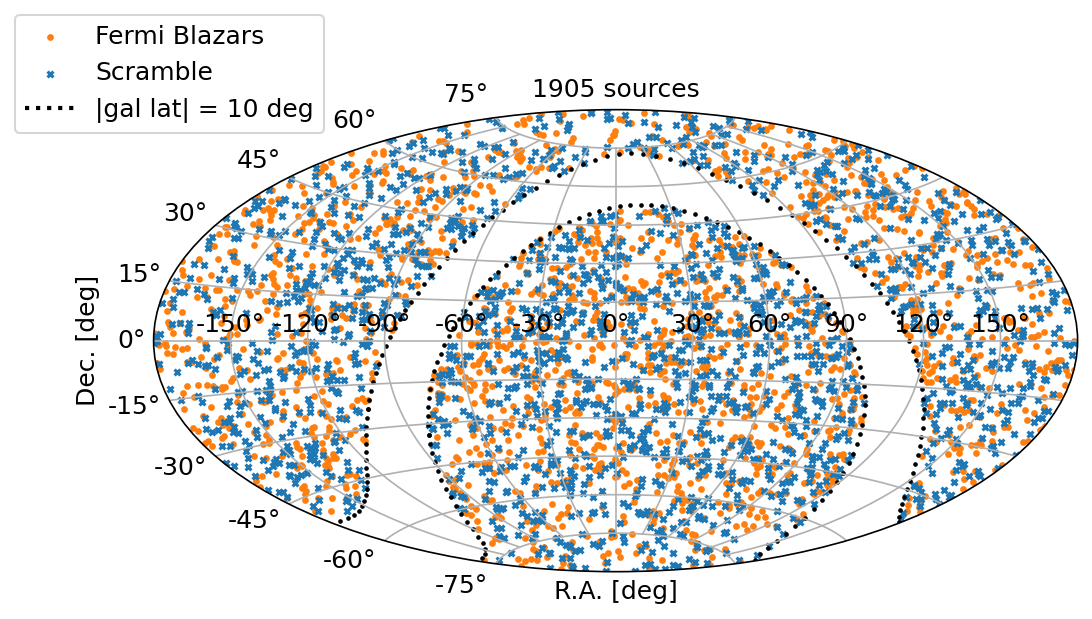
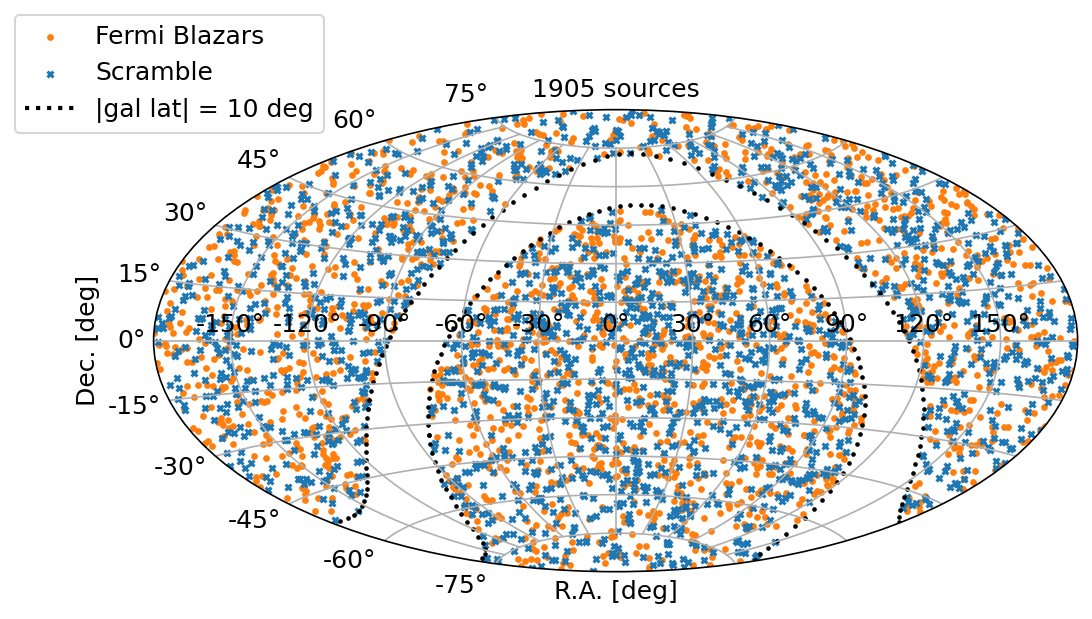
option to remove legend

Changed region(s): [[0.1245, 0.1842, 0.9963, 0.8288], [0.3736, 0.3376, 0.8095, 0.9208]]

diff --git a/alertstack/plotting_tools.py b/alertstack/plotting_tools.py
@@ -150,6 +150,7 @@ def plot_catalogue(
     final_pdf=False,
     scramble=False,
     scramble_size=20,
+    legend=True
 ):
     """Plot a catalogue with an aitoff projection
 
@@ -171,6 +172,8 @@ def plot_catalogue(
         Plot binning of sources with the desired nside
     scramble: `bool`
         Show the example of a scramble
+    legend: `bool`
+        Include or not the legend
     """
 
     catalogue = catalogue_obj.parse_data()
@@ -214,7 +217,8 @@ def plot_catalogue(
     plot_gp_coords(catalogue_obj.gp_threshold)
     plot_dec_cut(catalogue_obj.min_declination)
 
-    plt.legend(loc=(-0.15, 0.95), fontsize='large')
+    if legend:
+        plt.legend(loc=(-0.15, 0.95), fontsize='large')
     if weighter is not None:
         cb = plt.gcf().colorbar(im)
         cb.ax.tick_params(labelsize="large")

diff --git a/alertstack/scramble_catalogues/plot_catalogues.py b/alertstack/scramble_catalogues/plot_catalogues.py
@@ -129,6 +129,21 @@ if __name__ == "__main__":
         bbox_inches="tight"
     )
     plt.close()
+    plot_catalogue(
+        AccretionFlaresSjoertCatalogue(),
+        15,
+        "Accretion Flares",
+        "63 Accretion Flares",
+        final_pdf=True,
+        legend=False,
+    )
+    plt.savefig(
+        os.path.join(figures_folder,"sjoert_accr_flares_pdf_nolegend"),
+        dpi=150,
+        bbox_inches="tight"
+    )
+    plt.close()
+
 
 
     # Flaires catalogue
